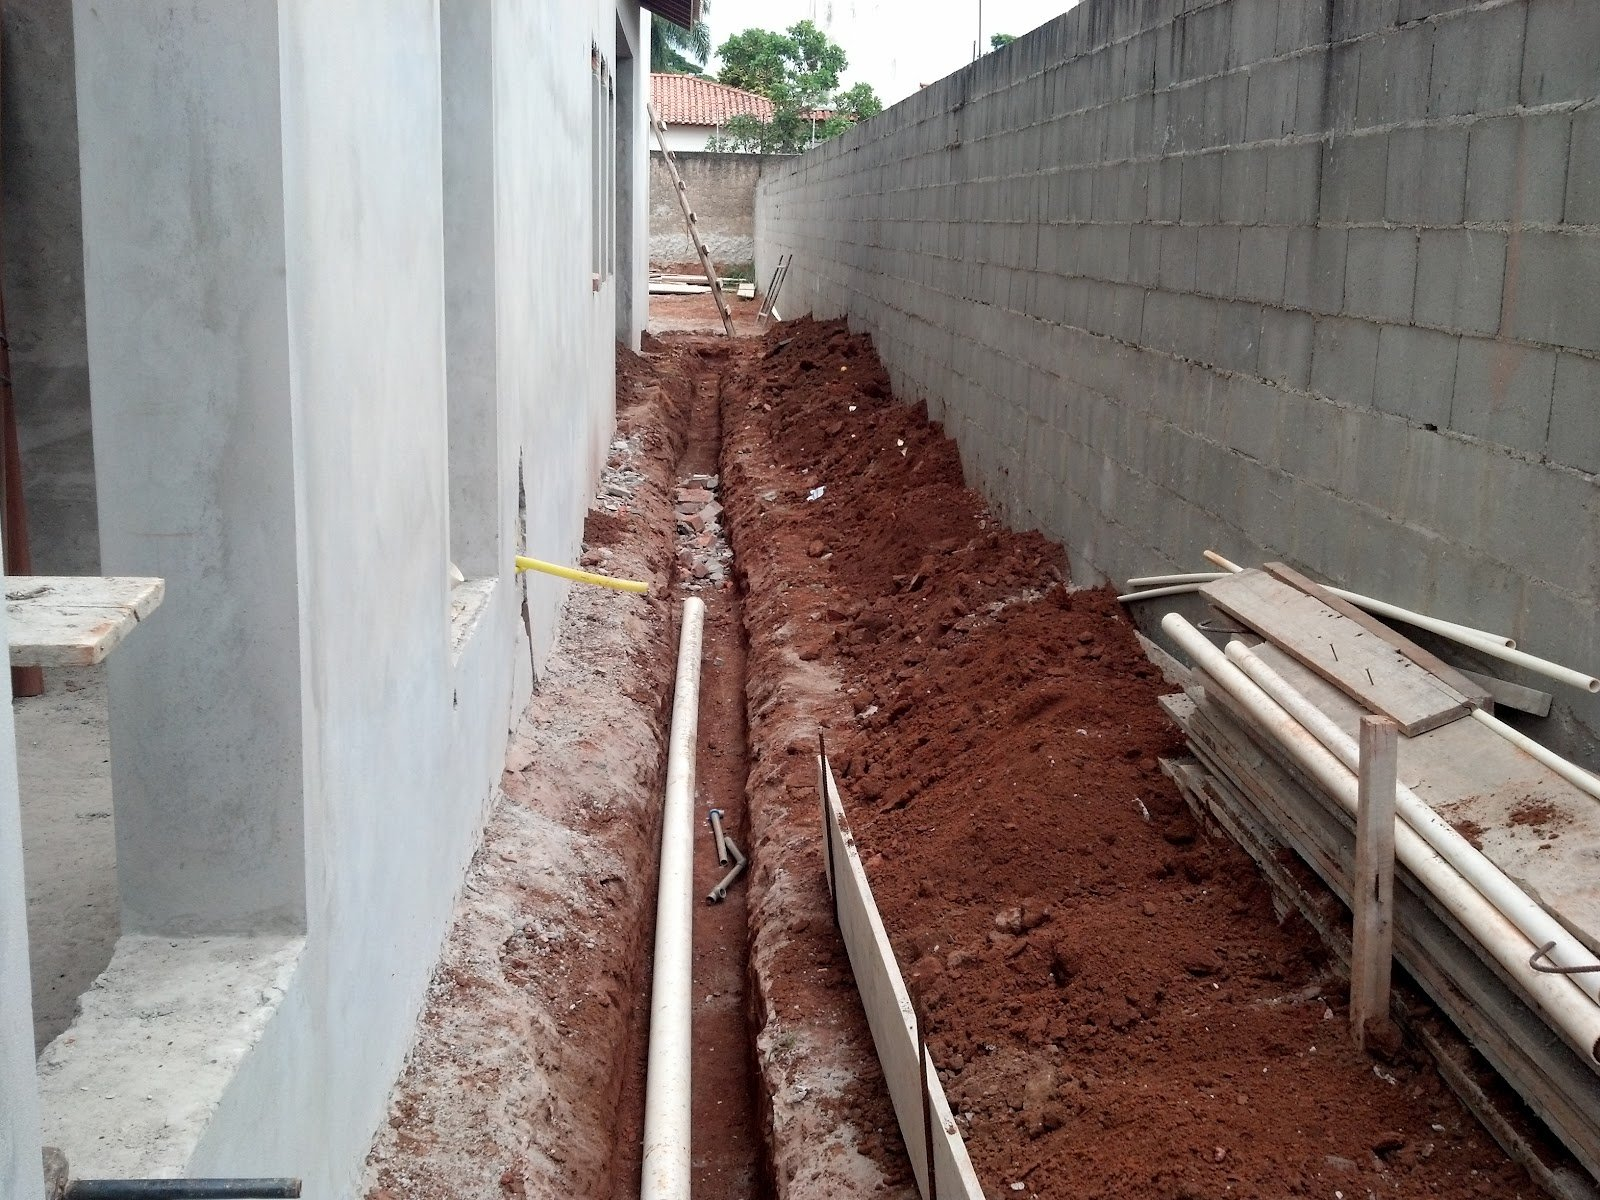
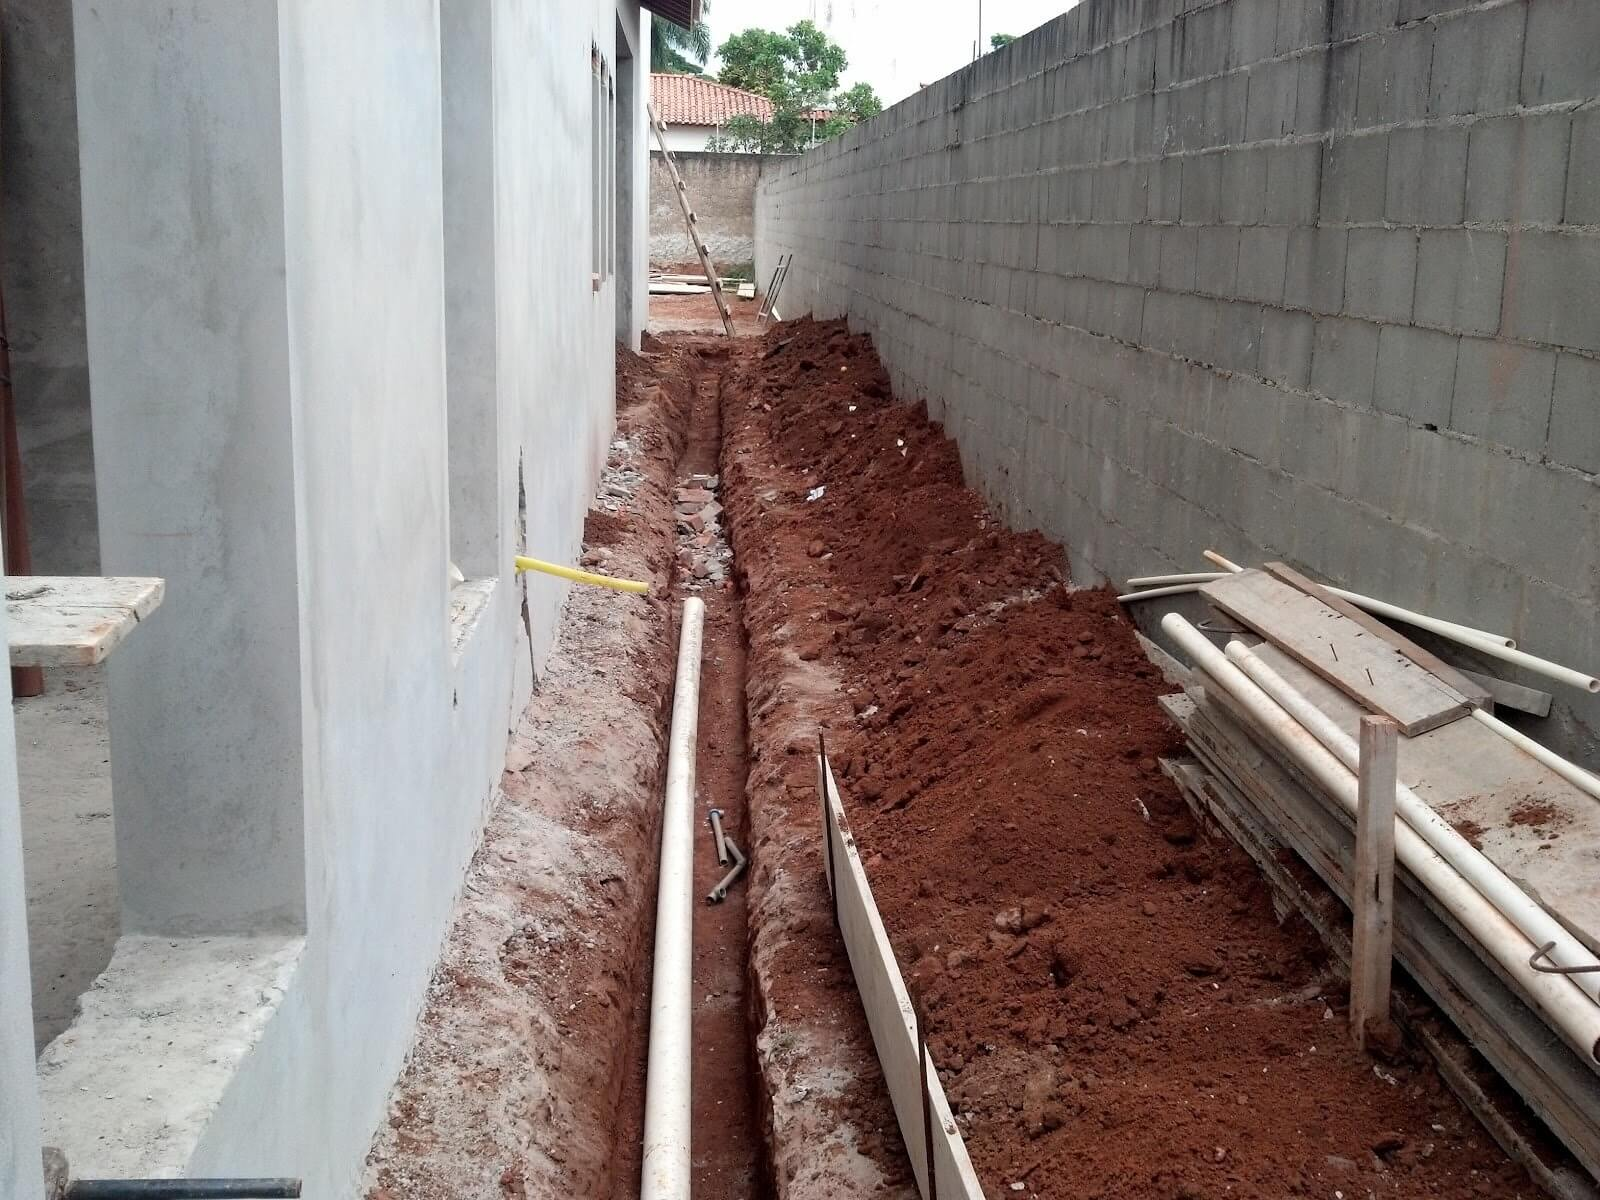
Light images with tinyPNG

Changed region(s): [[0.4688, 0.0617, 0.5, 0.0925]]

diff --git a/site/style/main-style.css b/site/style/main-style.css
@@ -249,7 +249,7 @@ input[name="s"]{
 .socialmedia {
     padding: 25px 25px;
     position: fixed;
-    top: 50px;
+    top: 130px;
     right: -25px;
     background: rgba(48, 48, 54, 0.671);
     z-index: 2;
